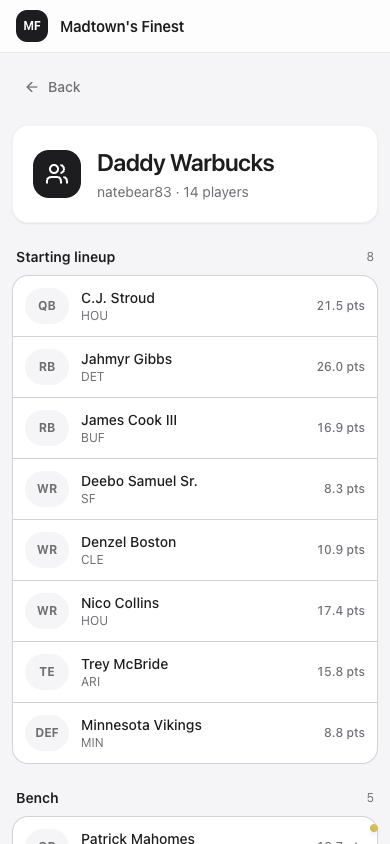
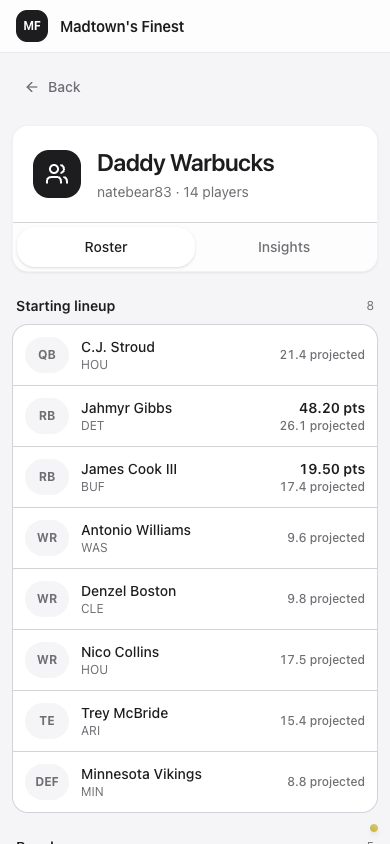
Show actual scores on team rosters

diff --git a/src/lib/team-roster.js b/src/lib/team-roster.js
@@ -44,6 +44,8 @@ export function buildTeamRoster({
   users = [],
   players = {},
   projections = {},
+  matchups = [],
+  playerStats = {},
 }) {
   const normalizedRosterId = String(rosterId ?? '')
   const roster = rosters.find(
@@ -55,6 +57,10 @@ export function buildTeamRoster({
     (candidate) => String(candidate?.user_id) === String(roster.owner_id),
   )
   const teamNames = buildRosterTeamNames(rosters, users)
+  const matchup = matchups.find(
+    (candidate) => String(candidate?.roster_id) === normalizedRosterId,
+  )
+  const actualPointsByPlayer = matchup?.players_points ?? {}
   const starterIds = new Set(normalizePlayerIds(roster.starters))
   const reserveIds = new Set(normalizePlayerIds(roster.reserve))
   const taxiIds = new Set(normalizePlayerIds(roster.taxi))
@@ -74,6 +80,17 @@ export function buildTeamRoster({
 
   playerIds.forEach((playerId) => {
     const player = players[playerId]
+    const hasMatchupScore = Object.prototype.hasOwnProperty.call(
+      actualPointsByPlayer,
+      playerId,
+    )
+    const actualPoints = Number(actualPointsByPlayer[playerId] ?? 0)
+    const stats = playerStats[playerId]
+    const hasPlayed = hasMatchupScore && (
+      Number(stats?.gp ?? 0) > 0
+      || Number(stats?.gms_active ?? 0) > 0
+      || actualPoints !== 0
+    )
     const entry = {
       id: playerId,
       name: playerName(player, playerId),
@@ -82,6 +99,8 @@ export function buildTeamRoster({
       projectedPoints: Number.isFinite(Number(projections[playerId]))
         ? Number(projections[playerId])
         : 0,
+      actualPoints: Number.isFinite(actualPoints) ? actualPoints : 0,
+      hasPlayed,
     }
 
     if (reserveIds.has(playerId)) {

diff --git a/src/hooks/useTeamRoster.js b/src/hooks/useTeamRoster.js
@@ -3,7 +3,9 @@ import { useCurrentWeek } from './useCurrentWeek'
 import { usePlayerMap } from './usePlayerMap'
 import {
   useSleeperProjections,
+  useSleeperMatchups,
   useSleeperRosters,
+  useSleeperStats,
   useSleeperUsers,
 } from './useSleeper'
 import { buildTeamRoster } from '../lib/team-roster'
@@ -14,6 +16,8 @@ export function useTeamRoster(rosterId) {
   const usersQuery = useSleeperUsers()
   const playersQuery = usePlayerMap()
   const projectionsQuery = useSleeperProjections({ week: displayWeek })
+  const matchupsQuery = useSleeperMatchups(displayWeek)
+  const statsQuery = useSleeperStats({ week: displayWeek })
   const data = useMemo(() => {
     if (!rostersQuery.data || !usersQuery.data || !playersQuery.data) return null
 
@@ -23,12 +27,16 @@ export function useTeamRoster(rosterId) {
       users: usersQuery.data,
       players: playersQuery.data.players,
       projections: projectionsQuery.data?.projections,
+      matchups: matchupsQuery.data,
+      playerStats: statsQuery.data,
     })
   }, [
     playersQuery.data,
+    matchupsQuery.data,
     projectionsQuery.data,
     rosterId,
     rostersQuery.data,
+    statsQuery.data,
     usersQuery.data,
   ])
   const queries = [rostersQuery, usersQuery, playersQuery]

diff --git a/src/components/TeamPage.jsx b/src/components/TeamPage.jsx
@@ -33,11 +33,22 @@ function RosterSection({ players, showProjectedPoints = false, title }) {
                 <span className="block text-xs text-muted-foreground">{player.nflTeam}</span>
               )}
             </span>
-            <span className="text-xs font-medium tabular-nums text-muted-foreground">
-              {showProjectedPoints
-                ? `${player.projectedPoints.toFixed(1)} pts`
-                : player.nflTeam}
-            </span>
+            {showProjectedPoints ? (
+              <span className="flex flex-col items-end tabular-nums">
+                {player.hasPlayed && (
+                  <span className="text-sm font-semibold text-foreground">
+                    {player.actualPoints.toFixed(2)} pts
+                  </span>
+                )}
+                <span className="text-xs font-medium text-muted-foreground">
+                  {player.projectedPoints.toFixed(1)} projected
+                </span>
+              </span>
+            ) : (
+              <span className="text-xs font-medium text-muted-foreground">
+                {player.nflTeam}
+              </span>
+            )}
           </div>
         ))}
       </div>

diff --git a/src/hooks/useSleeper.js b/src/hooks/useSleeper.js
@@ -203,3 +203,34 @@ export const useSleeperProjections = ({ week, enabled = true } = {}) => {
     refetchOnWindowFocus: false,
   })
 }
+
+export const useSleeperStats = ({ week, enabled = true } = {}) => {
+  const { data: leagueContext } = useLeagueContext()
+  const season = leagueContext?.season
+  const seasonType = leagueContext?.season_type
+  const selectedWeek = normalizeWeek(week)
+  const activeWeek = normalizeWeek(leagueContext?.week)
+
+  return useQuery({
+    enabled: isProjectionQueryEligible({
+      enabled,
+      season,
+      seasonType,
+      selectedWeek,
+    }),
+    queryKey: ['sleeper-stats', season, seasonType, selectedWeek],
+    queryFn: ({ signal }) => fetchSleeperJson(
+      `/stats/nfl/${seasonType}/${season}/${selectedWeek}`,
+      {
+        timeout: 15_000,
+        signal,
+        resource: 'stats',
+        queryKey: `${season}:${seasonType}:${selectedWeek}`,
+      },
+    ),
+    retry: 3,
+    staleTime: selectedWeek === activeWeek ? 5 * 60 * 1000 : 24 * 60 * 60 * 1000,
+    gcTime: 60 * 60 * 1000,
+    refetchOnWindowFocus: false,
+  })
+}

diff --git a/test/team-page.test.js b/test/team-page.test.js
@@ -61,6 +61,13 @@ test('builds a complete roster grouped by lineup status', () => {
       rb: 11.7,
       wr: 16.1,
     },
+    matchups: [{
+      roster_id: 2,
+      players_points: { qb: 0, rb: 0, wr: 19.5 },
+    }],
+    playerStats: {
+      qb: { gp: 1 },
+    },
   })
 
   assert.equal(team.teamName, 'The Winners')
@@ -68,8 +75,11 @@ test('builds a complete roster grouped by lineup status', () => {
   assert.equal(team.playerCount, 5)
   assert.deepEqual(team.starters.map((player) => player.id), ['qb', 'wr'])
   assert.deepEqual(team.starters.map((player) => player.projectedPoints), [24.36, 16.1])
+  assert.deepEqual(team.starters.map((player) => player.actualPoints), [0, 19.5])
+  assert.deepEqual(team.starters.map((player) => player.hasPlayed), [true, true])
   assert.deepEqual(team.bench.map((player) => player.id), ['rb'])
   assert.equal(team.bench[0].projectedPoints, 11.7)
+  assert.equal(team.bench[0].hasPlayed, false)
   assert.deepEqual(team.reserve.map((player) => player.id), ['ir'])
   assert.deepEqual(team.taxi.map((player) => player.id), ['taxi'])
 })

diff --git a/AGENTS.md b/AGENTS.md
@@ -24,7 +24,7 @@ npx cdk diff
 
 ## Active architecture
 
-The frontend is a React/Vite PWA hosted on Vercel. Weekly standings are assembled in the browser from Sleeper rosters, users, projections, and matchups plus a compact player map from the read API. Sleeper's `display_week` controls the default user-facing week, while its active `week` alone controls whether the visible, online matchup query repeats at a ten-second interval; metadata uses longer caches. The shared league-context query refreshes every five minutes while the app is online, visible, and focused, with one immediate refresh after resuming. Before a selected week at or after the display week records a nonzero team or player score, an unranked crystal-ball view shows original projections and the completed performance-trend history. Successive live player-score changes flash green or red by direction, and Motion animates rank changes after scoring begins. Initial or restored data establishes a fresh baseline, and reduced-motion preferences disable these effects. Overall standings and both charts read persisted data through API Gateway.
+The frontend is a React/Vite PWA hosted on Vercel. Weekly standings are assembled in the browser from Sleeper rosters, users, projections, and matchups plus a compact player map from the read API. Team roster pages use the display week's shared matchup stream for league-scored actual points and weekly stats to distinguish players whose games are complete, while keeping projections directly beneath actuals. Sleeper's `display_week` controls the default user-facing week, while its active `week` alone controls whether the visible, online matchup query repeats at a ten-second interval; metadata uses longer caches. The shared league-context query refreshes every five minutes while the app is online, visible, and focused, with one immediate refresh after resuming. Before a selected week at or after the display week records a nonzero team or player score, an unranked crystal-ball view shows original projections and the completed performance-trend history. Successive live player-score changes flash green or red by direction, and Motion animates rank changes after scoring begins. Initial or restored data establishes a fresh baseline, and reduced-motion preferences disable these effects. Overall standings and both charts read persisted data through API Gateway.
 
 The CDK stack in `infra/lib/infrastructure-stack.ts` defines:
 
